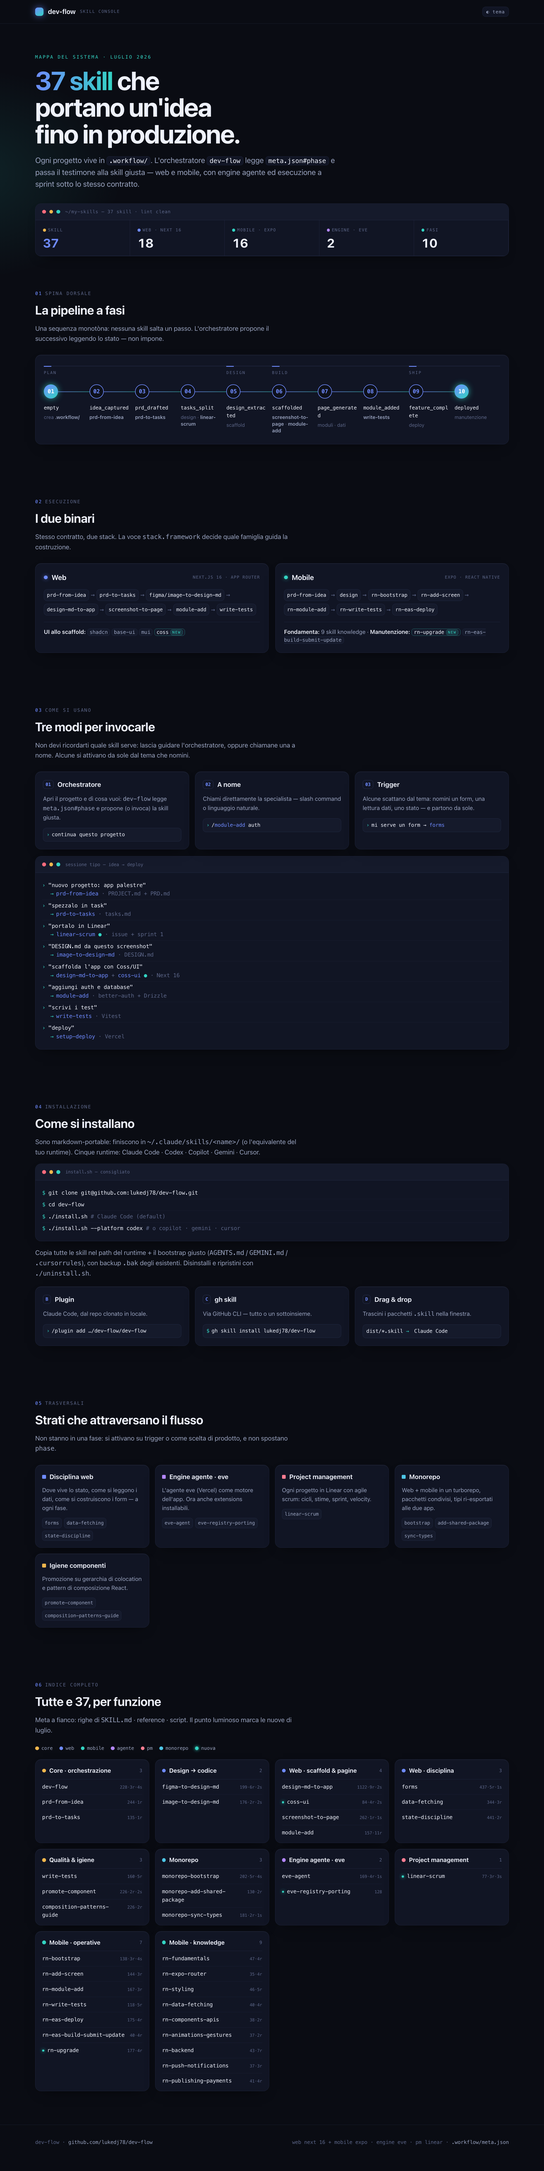
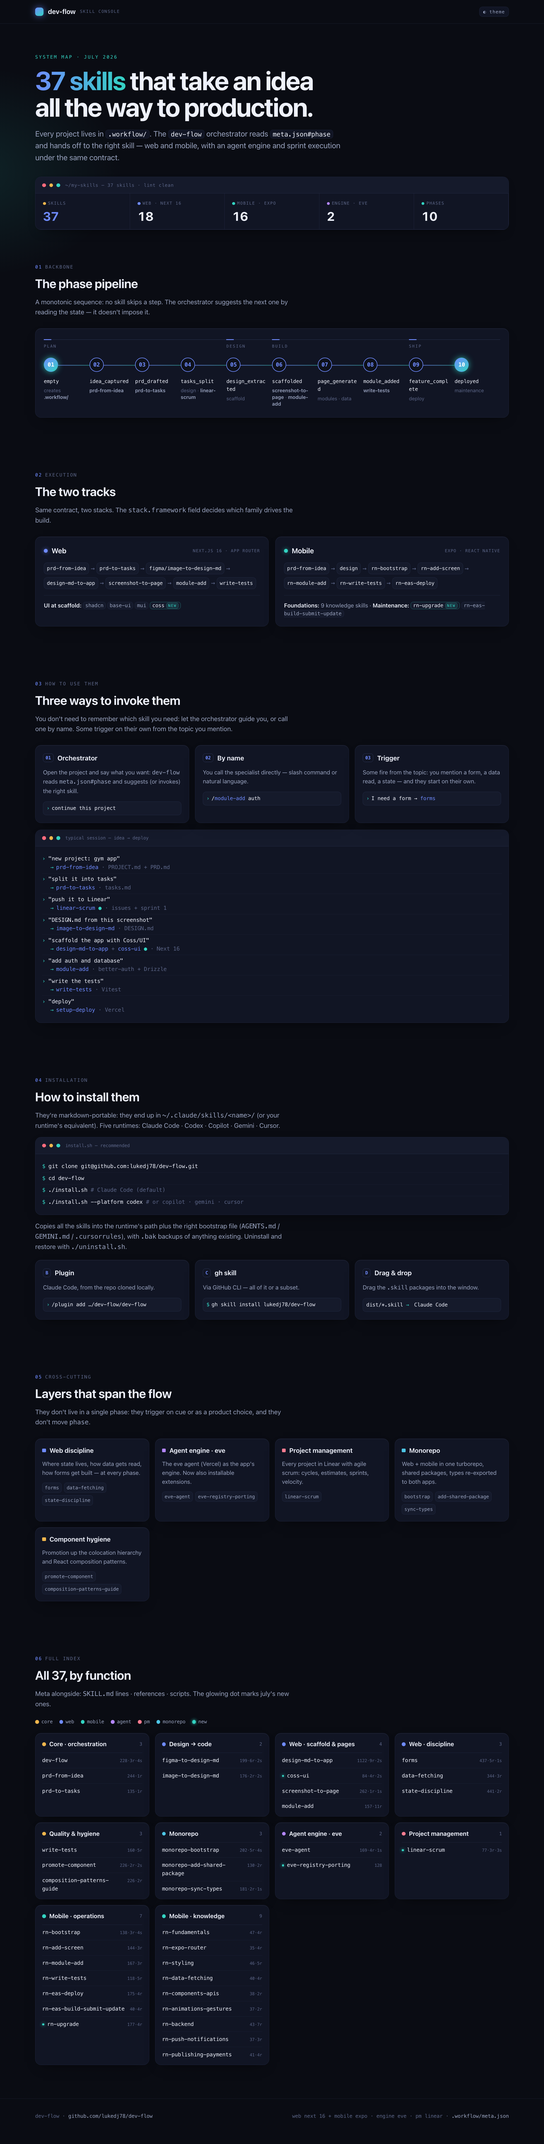
docs: English version of the skill map (infographic + README)
Translated the dev-flow skill-map infographic to English (copy only; CSS,
structure, skill/phase/machine tokens unchanged). Regenerated the full-page
screenshot and the standalone HTML in English; README alt/caption in English.

diff --git a/docs/dev-flow-skill-map.html b/docs/dev-flow-skill-map.html
@@ -1,12 +1,12 @@
 <!doctype html>
-<html lang="it">
+<html lang="en">
 <head>
 <meta charset="utf-8">
 <meta name="viewport" content="width=device-width, initial-scale=1">
-<title>dev-flow — console delle skill</title>
+<title>dev-flow — skill console</title>
 </head>
 <body>
-<title>dev-flow — console delle skill</title>
+<title>dev-flow — skill console</title>
 
 <style>
   :root{
@@ -212,24 +212,24 @@
 <div class="bar">
   <div class="wrap">
     <div class="logo"><span class="orb"></span> dev-flow <small>skill console</small></div>
-    <button class="tg" id="tg" type="button" aria-label="Inverti tema">◐ tema</button>
+    <button class="tg" id="tg" type="button" aria-label="Toggle theme">◐ theme</button>
   </div>
 </div>
 
 <header class="hero">
   <div class="wrap">
-    <div class="eyebrow">mappa del sistema · luglio 2026</div>
-    <h1><span class="g">37 skill</span> che portano un'idea fino in produzione.</h1>
-    <p class="lede">Ogni progetto vive in <code>.workflow/</code>. L'orchestratore <code>dev-flow</code> legge <code>meta.json#phase</code> e passa il testimone alla skill giusta — web e mobile, con engine agente ed esecuzione a sprint sotto lo stesso contratto.</p>
+    <div class="eyebrow">system map · july 2026</div>
+    <h1><span class="g">37 skills</span> that take an idea all the way to production.</h1>
+    <p class="lede">Every project lives in <code>.workflow/</code>. The <code>dev-flow</code> orchestrator reads <code>meta.json#phase</code> and hands off to the right skill — web and mobile, with an agent engine and sprint execution under the same contract.</p>
 
     <div class="console">
-      <div class="hd"><span class="d r"></span><span class="d y"></span><span class="d g"></span><span class="t mono">~/my-skills — 37 skill · lint clean</span></div>
+      <div class="hd"><span class="d r"></span><span class="d y"></span><span class="d g"></span><span class="t mono">~/my-skills — 37 skills · lint clean</span></div>
       <div class="metrics">
-        <div class="metric"><div class="k"><i style="background:var(--c-core)"></i>skill</div><div class="v" style="color:var(--ac)">37</div></div>
+        <div class="metric"><div class="k"><i style="background:var(--c-core)"></i>skills</div><div class="v" style="color:var(--ac)">37</div></div>
         <div class="metric"><div class="k"><i style="background:var(--c-web)"></i>web · next 16</div><div class="v">18</div></div>
         <div class="metric"><div class="k"><i style="background:var(--c-mobile)"></i>mobile · expo</div><div class="v">16</div></div>
         <div class="metric"><div class="k"><i style="background:var(--c-agent)"></i>engine · eve</div><div class="v">2</div></div>
-        <div class="metric"><div class="k"><i style="background:var(--ac-2)"></i>fasi</div><div class="v">10</div></div>
+        <div class="metric"><div class="k"><i style="background:var(--ac-2)"></i>phases</div><div class="v">10</div></div>
       </div>
     </div>
   </div>
@@ -237,9 +237,9 @@
 
 <section class="reveal">
   <div class="wrap">
-    <div class="kick"><span class="no">01</span> spina dorsale</div>
-    <h2 class="sec-t">La pipeline a fasi</h2>
-    <p class="sec-p">Una sequenza monotòna: nessuna skill salta un passo. L'orchestratore propone il successivo leggendo lo stato — non impone.</p>
+    <div class="kick"><span class="no">01</span> backbone</div>
+    <h2 class="sec-t">The phase pipeline</h2>
+    <p class="sec-p">A monotonic sequence: no skill skips a step. The orchestrator suggests the next one by reading the state — it doesn't impose it.</p>
 
     <div class="pipe-wrap">
       <div class="pipe-scroll">
@@ -251,16 +251,16 @@
             <div class="stage" style="grid-column:span 2">Ship</div>
           </div>
           <div class="nodes">
-            <div class="nd first"><div class="dot">01</div><div class="p">empty</div><div class="s">crea <b>.workflow/</b></div></div>
+            <div class="nd first"><div class="dot">01</div><div class="p">empty</div><div class="s">creates <b>.workflow/</b></div></div>
             <div class="nd"><div class="dot">02</div><div class="p">idea_captured</div><div class="s"><b>prd-from-idea</b></div></div>
             <div class="nd"><div class="dot">03</div><div class="p">prd_drafted</div><div class="s"><b>prd-to-tasks</b></div></div>
             <div class="nd"><div class="dot">04</div><div class="p">tasks_split</div><div class="s">design · <b>linear-scrum</b></div></div>
             <div class="nd"><div class="dot">05</div><div class="p">design_extracted</div><div class="s">scaffold</div></div>
             <div class="nd"><div class="dot">06</div><div class="p">scaffolded</div><div class="s"><b>screenshot-to-page</b> · <b>module-add</b></div></div>
-            <div class="nd"><div class="dot">07</div><div class="p">page_generated</div><div class="s">moduli · dati</div></div>
+            <div class="nd"><div class="dot">07</div><div class="p">page_generated</div><div class="s">modules · data</div></div>
             <div class="nd"><div class="dot">08</div><div class="p">module_added</div><div class="s"><b>write-tests</b></div></div>
             <div class="nd"><div class="dot">09</div><div class="p">feature_complete</div><div class="s">deploy</div></div>
-            <div class="nd last"><div class="dot">10</div><div class="p">deployed</div><div class="s">manutenzione</div></div>
+            <div class="nd last"><div class="dot">10</div><div class="p">deployed</div><div class="s">maintenance</div></div>
           </div>
         </div>
       </div>
@@ -270,9 +270,9 @@
 
 <section class="reveal">
   <div class="wrap">
-    <div class="kick"><span class="no">02</span> esecuzione</div>
-    <h2 class="sec-t">I due binari</h2>
-    <p class="sec-p">Stesso contratto, due stack. La voce <code>stack.framework</code> decide quale famiglia guida la costruzione.</p>
+    <div class="kick"><span class="no">02</span> execution</div>
+    <h2 class="sec-t">The two tracks</h2>
+    <p class="sec-p">Same contract, two stacks. The <code>stack.framework</code> field decides which family drives the build.</p>
 
     <div class="tracks">
       <div class="card trk web">
@@ -286,7 +286,7 @@
           <span class="st">module-add</span><span class="arw">→</span>
           <span class="st">write-tests</span>
         </div>
-        <div class="foot"><b>UI allo scaffold:</b> <span class="o">shadcn</span> <span class="o">base-ui</span> <span class="o">mui</span> <span class="o n">coss<span class="badge">new</span></span></div>
+        <div class="foot"><b>UI at scaffold:</b> <span class="o">shadcn</span> <span class="o">base-ui</span> <span class="o">mui</span> <span class="o n">coss<span class="badge">new</span></span></div>
       </div>
 
       <div class="card trk mob">
@@ -300,7 +300,7 @@
           <span class="st">rn-write-tests</span><span class="arw">→</span>
           <span class="st">rn-eas-deploy</span>
         </div>
-        <div class="foot"><b>Fondamenta:</b> 9 skill knowledge · <b>Manutenzione:</b> <span class="o n">rn-upgrade<span class="badge">new</span></span> <span class="o">rn-eas-build-submit-update</span></div>
+        <div class="foot"><b>Foundations:</b> 9 knowledge skills · <b>Maintenance:</b> <span class="o n">rn-upgrade<span class="badge">new</span></span> <span class="o">rn-eas-build-submit-update</span></div>
       </div>
     </div>
   </div>
@@ -308,38 +308,38 @@
 
 <section class="reveal">
   <div class="wrap">
-    <div class="kick"><span class="no">03</span> come si usano</div>
-    <h2 class="sec-t">Tre modi per invocarle</h2>
-    <p class="sec-p">Non devi ricordarti quale skill serve: lascia guidare l'orchestratore, oppure chiamane una a nome. Alcune si attivano da sole dal tema che nomini.</p>
+    <div class="kick"><span class="no">03</span> how to use them</div>
+    <h2 class="sec-t">Three ways to invoke them</h2>
+    <p class="sec-p">You don't need to remember which skill you need: let the orchestrator guide you, or call one by name. Some trigger on their own from the topic you mention.</p>
 
     <div class="modes">
       <div class="card mode">
-        <div class="mh"><span class="num">01</span> Orchestratore</div>
-        <p>Apri il progetto e dì cosa vuoi: <code>dev-flow</code> legge <code>meta.json#phase</code> e propone (o invoca) la skill giusta.</p>
-        <code class="ex"><span class="pr">›</span>continua questo progetto</code>
+        <div class="mh"><span class="num">01</span> Orchestrator</div>
+        <p>Open the project and say what you want: <code>dev-flow</code> reads <code>meta.json#phase</code> and suggests (or invokes) the right skill.</p>
+        <code class="ex"><span class="pr">›</span>continue this project</code>
       </div>
       <div class="card mode">
-        <div class="mh"><span class="num">02</span> A nome</div>
-        <p>Chiami direttamente la specialista — slash command o linguaggio naturale.</p>
+        <div class="mh"><span class="num">02</span> By name</div>
+        <p>You call the specialist directly — slash command or natural language.</p>
         <code class="ex"><span class="pr">›</span>/<span class="sk">module-add</span> auth</code>
       </div>
       <div class="card mode">
         <div class="mh"><span class="num">03</span> Trigger</div>
-        <p>Alcune scattano dal tema: nomini un form, una lettura dati, uno stato — e partono da sole.</p>
-        <code class="ex"><span class="pr">›</span>mi serve un form → <span class="sk">forms</span></code>
+        <p>Some fire from the topic: you mention a form, a data read, a state — and they start on their own.</p>
+        <code class="ex"><span class="pr">›</span>I need a form → <span class="sk">forms</span></code>
       </div>
     </div>
 
-    <div class="term" aria-label="sessione di esempio">
-      <div class="thd"><span class="d r"></span><span class="d y"></span><span class="d g"></span><span class="t">sessione tipo — idea → deploy</span></div>
+    <div class="term" aria-label="example session">
+      <div class="thd"><span class="d r"></span><span class="d y"></span><span class="d g"></span><span class="t">typical session — idea → deploy</span></div>
       <div class="tb">
-        <div class="step"><div class="cmd"><span class="pr">›</span>"nuovo progetto: app palestre"</div><div class="res"><span class="ar">→</span><span class="sk">prd-from-idea</span> · PROJECT.md + PRD.md</div></div>
-        <div class="step"><div class="cmd"><span class="pr">›</span>"spezzalo in task"</div><div class="res"><span class="ar">→</span><span class="sk">prd-to-tasks</span> · tasks.md</div></div>
-        <div class="step"><div class="cmd"><span class="pr">›</span>"portalo in Linear"</div><div class="res"><span class="ar">→</span><span class="sk new">linear-scrum</span> · issue + sprint 1</div></div>
-        <div class="step"><div class="cmd"><span class="pr">›</span>"DESIGN.md da questo screenshot"</div><div class="res"><span class="ar">→</span><span class="sk">image-to-design-md</span> · DESIGN.md</div></div>
-        <div class="step"><div class="cmd"><span class="pr">›</span>"scaffolda l'app con Coss/UI"</div><div class="res"><span class="ar">→</span><span class="sk">design-md-to-app</span> + <span class="sk new">coss-ui</span> · Next 16</div></div>
-        <div class="step"><div class="cmd"><span class="pr">›</span>"aggiungi auth e database"</div><div class="res"><span class="ar">→</span><span class="sk">module-add</span> · better-auth + Drizzle</div></div>
-        <div class="step"><div class="cmd"><span class="pr">›</span>"scrivi i test"</div><div class="res"><span class="ar">→</span><span class="sk">write-tests</span> · Vitest</div></div>
+        <div class="step"><div class="cmd"><span class="pr">›</span>"new project: gym app"</div><div class="res"><span class="ar">→</span><span class="sk">prd-from-idea</span> · PROJECT.md + PRD.md</div></div>
+        <div class="step"><div class="cmd"><span class="pr">›</span>"split it into tasks"</div><div class="res"><span class="ar">→</span><span class="sk">prd-to-tasks</span> · tasks.md</div></div>
+        <div class="step"><div class="cmd"><span class="pr">›</span>"push it to Linear"</div><div class="res"><span class="ar">→</span><span class="sk new">linear-scrum</span> · issues + sprint 1</div></div>
+        <div class="step"><div class="cmd"><span class="pr">›</span>"DESIGN.md from this screenshot"</div><div class="res"><span class="ar">→</span><span class="sk">image-to-design-md</span> · DESIGN.md</div></div>
+        <div class="step"><div class="cmd"><span class="pr">›</span>"scaffold the app with Coss/UI"</div><div class="res"><span class="ar">→</span><span class="sk">design-md-to-app</span> + <span class="sk new">coss-ui</span> · Next 16</div></div>
+        <div class="step"><div class="cmd"><span class="pr">›</span>"add auth and database"</div><div class="res"><span class="ar">→</span><span class="sk">module-add</span> · better-auth + Drizzle</div></div>
+        <div class="step"><div class="cmd"><span class="pr">›</span>"write the tests"</div><div class="res"><span class="ar">→</span><span class="sk">write-tests</span> · Vitest</div></div>
         <div class="step"><div class="cmd"><span class="pr">›</span>"deploy"</div><div class="res"><span class="ar">→</span><span class="sk">setup-deploy</span> · Vercel</div></div>
       </div>
     </div>
@@ -348,35 +348,35 @@
 
 <section class="reveal">
   <div class="wrap">
-    <div class="kick"><span class="no">04</span> installazione</div>
-    <h2 class="sec-t">Come si installano</h2>
-    <p class="sec-p">Sono markdown-portable: finiscono in <code>~/.claude/skills/&lt;name&gt;/</code> (o l'equivalente del tuo runtime). Cinque runtime: Claude Code · Codex · Copilot · Gemini · Cursor.</p>
+    <div class="kick"><span class="no">04</span> installation</div>
+    <h2 class="sec-t">How to install them</h2>
+    <p class="sec-p">They're markdown-portable: they end up in <code>~/.claude/skills/&lt;name&gt;/</code> (or your runtime's equivalent). Five runtimes: Claude Code · Codex · Copilot · Gemini · Cursor.</p>
 
-    <div class="term" aria-label="installazione consigliata">
-      <div class="thd"><span class="d r"></span><span class="d y"></span><span class="d g"></span><span class="t">install.sh — consigliato</span></div>
+    <div class="term" aria-label="recommended installation">
+      <div class="thd"><span class="d r"></span><span class="d y"></span><span class="d g"></span><span class="t">install.sh — recommended</span></div>
       <div class="tb">
         <div class="step"><div class="cmd"><span class="pr">$</span>git clone git@github.com:lukedj78/dev-flow.git</div></div>
         <div class="step"><div class="cmd"><span class="pr">$</span>cd dev-flow</div></div>
         <div class="step"><div class="cmd"><span class="pr">$</span>./install.sh <span class="cm"># Claude Code (default)</span></div></div>
-        <div class="step"><div class="cmd"><span class="pr">$</span>./install.sh --platform codex <span class="cm"># o copilot · gemini · cursor</span></div></div>
+        <div class="step"><div class="cmd"><span class="pr">$</span>./install.sh --platform codex <span class="cm"># or copilot · gemini · cursor</span></div></div>
       </div>
     </div>
-    <p class="sec-p" style="margin-top:.9rem">Copia tutte le skill nel path del runtime + il bootstrap giusto (<code>AGENTS.md</code> / <code>GEMINI.md</code> / <code>.cursorrules</code>), con backup <code>.bak</code> degli esistenti. Disinstalli e ripristini con <code>./uninstall.sh</code>.</p>
+    <p class="sec-p" style="margin-top:.9rem">Copies all the skills into the runtime's path plus the right bootstrap file (<code>AGENTS.md</code> / <code>GEMINI.md</code> / <code>.cursorrules</code>), with <code>.bak</code> backups of anything existing. Uninstall and restore with <code>./uninstall.sh</code>.</p>
 
     <div class="modes" style="margin-top:1.2rem">
       <div class="card mode">
         <div class="mh"><span class="num">B</span> Plugin</div>
-        <p>Claude Code, dal repo clonato in locale.</p>
+        <p>Claude Code, from the repo cloned locally.</p>
         <code class="ex"><span class="pr">›</span>/plugin add …/dev-flow/dev-flow</code>
       </div>
       <div class="card mode">
         <div class="mh"><span class="num">C</span> gh skill</div>
-        <p>Via GitHub CLI — tutto o un sottoinsieme.</p>
+        <p>Via GitHub CLI — all of it or a subset.</p>
         <code class="ex"><span class="pr">$</span>gh skill install lukedj78/dev-flow</code>
       </div>
       <div class="card mode">
         <div class="mh"><span class="num">D</span> Drag &amp; drop</div>
-        <p>Trascini i pacchetti <code>.skill</code> nella finestra.</p>
+        <p>Drag the <code>.skill</code> packages into the window.</p>
         <code class="ex">dist/*.skill <span class="pr">→</span> Claude Code</code>
       </div>
     </div>
@@ -385,34 +385,34 @@
 
 <section class="reveal">
   <div class="wrap">
-    <div class="kick"><span class="no">05</span> trasversali</div>
-    <h2 class="sec-t">Strati che attraversano il flusso</h2>
-    <p class="sec-p">Non stanno in una fase: si attivano su trigger o come scelta di prodotto, e non spostano <code>phase</code>.</p>
+    <div class="kick"><span class="no">05</span> cross-cutting</div>
+    <h2 class="sec-t">Layers that span the flow</h2>
+    <p class="sec-p">They don't live in a single phase: they trigger on cue or as a product choice, and they don't move <code>phase</code>.</p>
 
     <div class="layers">
       <div class="card lyr">
-        <div class="h"><i style="background:var(--c-web)"></i> Disciplina web</div>
-        <p>Dove vive lo stato, come si leggono i dati, come si costruiscono i form — a ogni fase.</p>
+        <div class="h"><i style="background:var(--c-web)"></i> Web discipline</div>
+        <p>Where state lives, how data gets read, how forms get built — at every phase.</p>
         <div class="ss"><span class="s">forms</span><span class="s">data-fetching</span><span class="s">state-discipline</span></div>
       </div>
       <div class="card lyr">
-        <div class="h"><i style="background:var(--c-agent)"></i> Engine agente · eve</div>
-        <p>L'agente eve (Vercel) come motore dell'app. Ora anche extensions installabili.</p>
+        <div class="h"><i style="background:var(--c-agent)"></i> Agent engine · eve</div>
+        <p>The eve agent (Vercel) as the app's engine. Now also installable extensions.</p>
         <div class="ss"><span class="s">eve-agent</span><span class="s">eve-registry-porting</span></div>
       </div>
       <div class="card lyr">
         <div class="h"><i style="background:var(--c-pm)"></i> Project management</div>
-        <p>Ogni progetto in Linear con agile scrum: cicli, stime, sprint, velocity.</p>
+        <p>Every project in Linear with agile scrum: cycles, estimates, sprints, velocity.</p>
         <div class="ss"><span class="s">linear-scrum</span></div>
       </div>
       <div class="card lyr">
         <div class="h"><i style="background:var(--c-mono)"></i> Monorepo</div>
-        <p>Web + mobile in un turborepo, pacchetti condivisi, tipi ri-esportati alle due app.</p>
+        <p>Web + mobile in one turborepo, shared packages, types re-exported to both apps.</p>
         <div class="ss"><span class="s">bootstrap</span><span class="s">add-shared-package</span><span class="s">sync-types</span></div>
       </div>
       <div class="card lyr">
-        <div class="h"><i style="background:var(--c-core)"></i> Igiene componenti</div>
-        <p>Promozione su gerarchia di colocation e pattern di composizione React.</p>
+        <div class="h"><i style="background:var(--c-core)"></i> Component hygiene</div>
+        <p>Promotion up the colocation hierarchy and React composition patterns.</p>
         <div class="ss"><span class="s">promote-component</span><span class="s">composition-patterns-guide</span></div>
       </div>
     </div>
@@ -421,47 +421,47 @@
 
 <section class="reveal">
   <div class="wrap">
-    <div class="kick"><span class="no">06</span> indice completo</div>
-    <h2 class="sec-t">Tutte e 37, per funzione</h2>
-    <p class="sec-p">Meta a fianco: righe di <code>SKILL.md</code> · reference · script. Il punto luminoso marca le nuove di luglio.</p>
+    <div class="kick"><span class="no">06</span> full index</div>
+    <h2 class="sec-t">All 37, by function</h2>
+    <p class="sec-p">Meta alongside: <code>SKILL.md</code> lines · references · scripts. The glowing dot marks july's new ones.</p>
 
     <div class="legend">
       <span class="lg"><i style="background:var(--c-core)"></i> core</span>
       <span class="lg"><i style="background:var(--c-web)"></i> web</span>
       <span class="lg"><i style="background:var(--c-mobile)"></i> mobile</span>
-      <span class="lg"><i style="background:var(--c-agent)"></i> agente</span>
+      <span class="lg"><i style="background:var(--c-agent)"></i> agent</span>
       <span class="lg"><i style="background:var(--c-pm)"></i> pm</span>
       <span class="lg"><i style="background:var(--c-mono)"></i> monorepo</span>
-      <span class="lg"><i style="background:var(--new); box-shadow:0 0 8px var(--new)"></i> nuova</span>
+      <span class="lg"><i style="background:var(--new); box-shadow:0 0 8px var(--new)"></i> new</span>
     </div>
 
     <div class="index">
       <div class="card grp">
-        <div class="gh"><i style="background:var(--c-core)"></i><span class="gt">Core · orchestrazione</span><span class="gn">3</span></div>
+        <div class="gh"><i style="background:var(--c-core)"></i><span class="gt">Core · orchestration</span><span class="gn">3</span></div>
         <div class="row"><span class="sk">dev-flow</span><span class="m">228·3r·4s</span></div>
         <div class="row"><span class="sk">prd-from-idea</span><span class="m">244·1r</span></div>
         <div class="row"><span class="sk">prd-to-tasks</span><span class="m">135·1r</span></div>
       </div>
       <div class="card grp">
-        <div class="gh"><i style="background:var(--c-web)"></i><span class="gt">Design → codice</span><span class="gn">2</span></div>
+        <div class="gh"><i style="background:var(--c-web)"></i><span class="gt">Design → code</span><span class="gn">2</span></div>
         <div class="row"><span class="sk">figma-to-design-md</span><span class="m">199·6r·2s</span></div>
         <div class="row"><span class="sk">image-to-design-md</span><span class="m">176·2r·2s</span></div>
       </div>
       <div class="card grp">
-        <div class="gh"><i style="background:var(--c-web)"></i><span class="gt">Web · scaffold & pagine</span><span class="gn">4</span></div>
+        <div class="gh"><i style="background:var(--c-web)"></i><span class="gt">Web · scaffold & pages</span><span class="gn">4</span></div>
         <div class="row"><span class="sk">design-md-to-app</span><span class="m">1122·9r·2s</span></div>
         <div class="row new"><span class="sk">coss-ui</span><span class="m">84·4r·2s</span></div>
         <div class="row"><span class="sk">screenshot-to-page</span><span class="m">262·1r·1s</span></div>
         <div class="row"><span class="sk">module-add</span><span class="m">157·11r</span></div>
       </div>
       <div class="card grp">
-        <div class="gh"><i style="background:var(--c-web)"></i><span class="gt">Web · disciplina</span><span class="gn">3</span></div>
+        <div class="gh"><i style="background:var(--c-web)"></i><span class="gt">Web · discipline</span><span class="gn">3</span></div>
         <div class="row"><span class="sk">forms</span><span class="m">437·5r·1s</span></div>
         <div class="row"><span class="sk">data-fetching</span><span class="m">344·3r</span></div>
         <div class="row"><span class="sk">state-discipline</span><span class="m">441·2r</span></div>
       </div>
       <div class="card grp">
-        <div class="gh"><i style="background:var(--c-core)"></i><span class="gt">Qualità & igiene</span><span class="gn">3</span></div>
+        <div class="gh"><i style="background:var(--c-core)"></i><span class="gt">Quality & hygiene</span><span class="gn">3</span></div>
         <div class="row"><span class="sk">write-tests</span><span class="m">160·5r</span></div>
         <div class="row"><span class="sk">promote-component</span><span class="m">226·2r·2s</span></div>
         <div class="row"><span class="sk">composition-patterns-guide</span><span class="m">226·2r</span></div>
@@ -473,7 +473,7 @@
         <div class="row"><span class="sk">monorepo-sync-types</span><span class="m">181·2r·1s</span></div>
       </div>
       <div class="card grp">
-        <div class="gh"><i style="background:var(--c-agent)"></i><span class="gt">Engine agente · eve</span><span class="gn">2</span></div>
+        <div class="gh"><i style="background:var(--c-agent)"></i><span class="gt">Agent engine · eve</span><span class="gn">2</span></div>
         <div class="row"><span class="sk">eve-agent</span><span class="m">169·4r·1s</span></div>
         <div class="row new"><span class="sk">eve-registry-porting</span><span class="m">128</span></div>
       </div>
@@ -482,7 +482,7 @@
         <div class="row new"><span class="sk">linear-scrum</span><span class="m">77·3r·3s</span></div>
       </div>
       <div class="card grp">
-        <div class="gh"><i style="background:var(--c-mobile)"></i><span class="gt">Mobile · operative</span><span class="gn">7</span></div>
+        <div class="gh"><i style="background:var(--c-mobile)"></i><span class="gt">Mobile · operations</span><span class="gn">7</span></div>
         <div class="row"><span class="sk">rn-bootstrap</span><span class="m">138·3r·4s</span></div>
         <div class="row"><span class="sk">rn-add-screen</span><span class="m">144·3r</span></div>
         <div class="row"><span class="sk">rn-module-add</span><span class="m">167·3r</span></div>

diff --git a/README.md b/README.md
@@ -1,8 +1,8 @@
 # dev-flow
 
-![dev-flow — mappa delle 37 skill: pipeline a fasi (Plan · Design · Build · Ship), binari web/mobile, engine agente eve, come si usa e si installa, indice completo](./docs/assets/dev-flow-skill-map.png)
+![dev-flow — map of the 37 skills: phase pipeline (Plan · Design · Build · Ship), web/mobile tracks, eve agent engine, how to use & install, full index](./docs/assets/dev-flow-skill-map.png)
 
-<sub>↑ Versione interattiva (dark/light, apribile in locale nel browser): [`docs/dev-flow-skill-map.html`](./docs/dev-flow-skill-map.html)</sub>
+<sub>↑ Interactive version (dark/light, opens locally in a browser): [`docs/dev-flow-skill-map.html`](./docs/dev-flow-skill-map.html)</sub>
 
 > **A filesystem contract for agent-driven SDLC.**
 > One folder (`.workflow/`), one state file (`meta.json`), and **37 skills (4 core + 10 web + 2 agent + 16 mobile + 3 monorepo + 2 refactor)** that read/write it. The contract is the product — the skills are durable, replaceable consumers.
